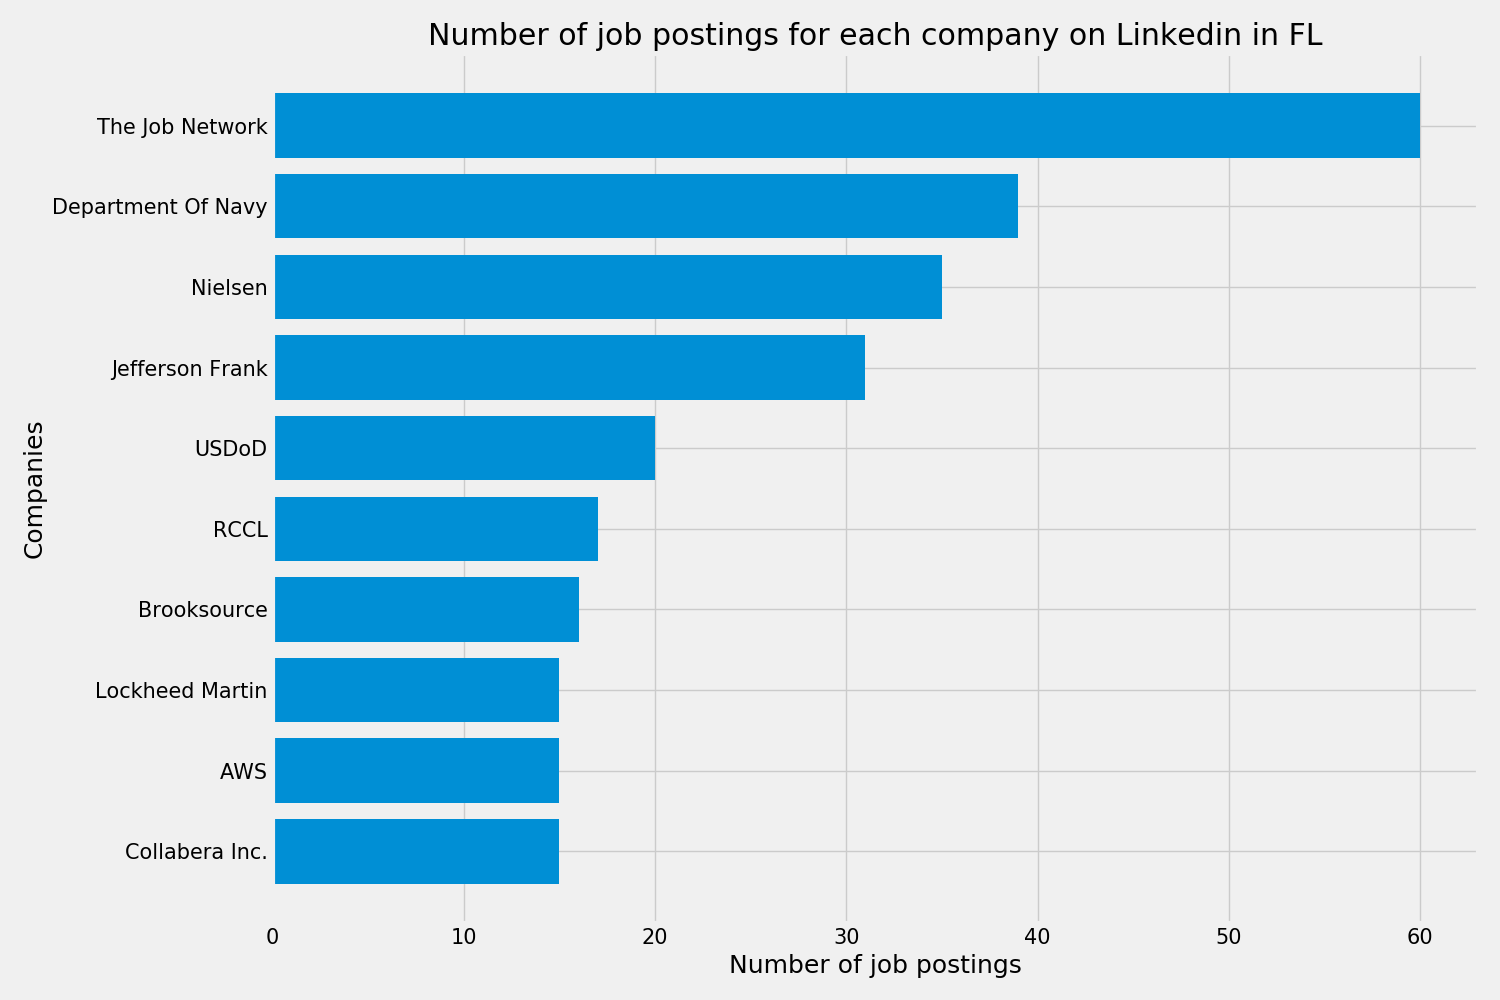
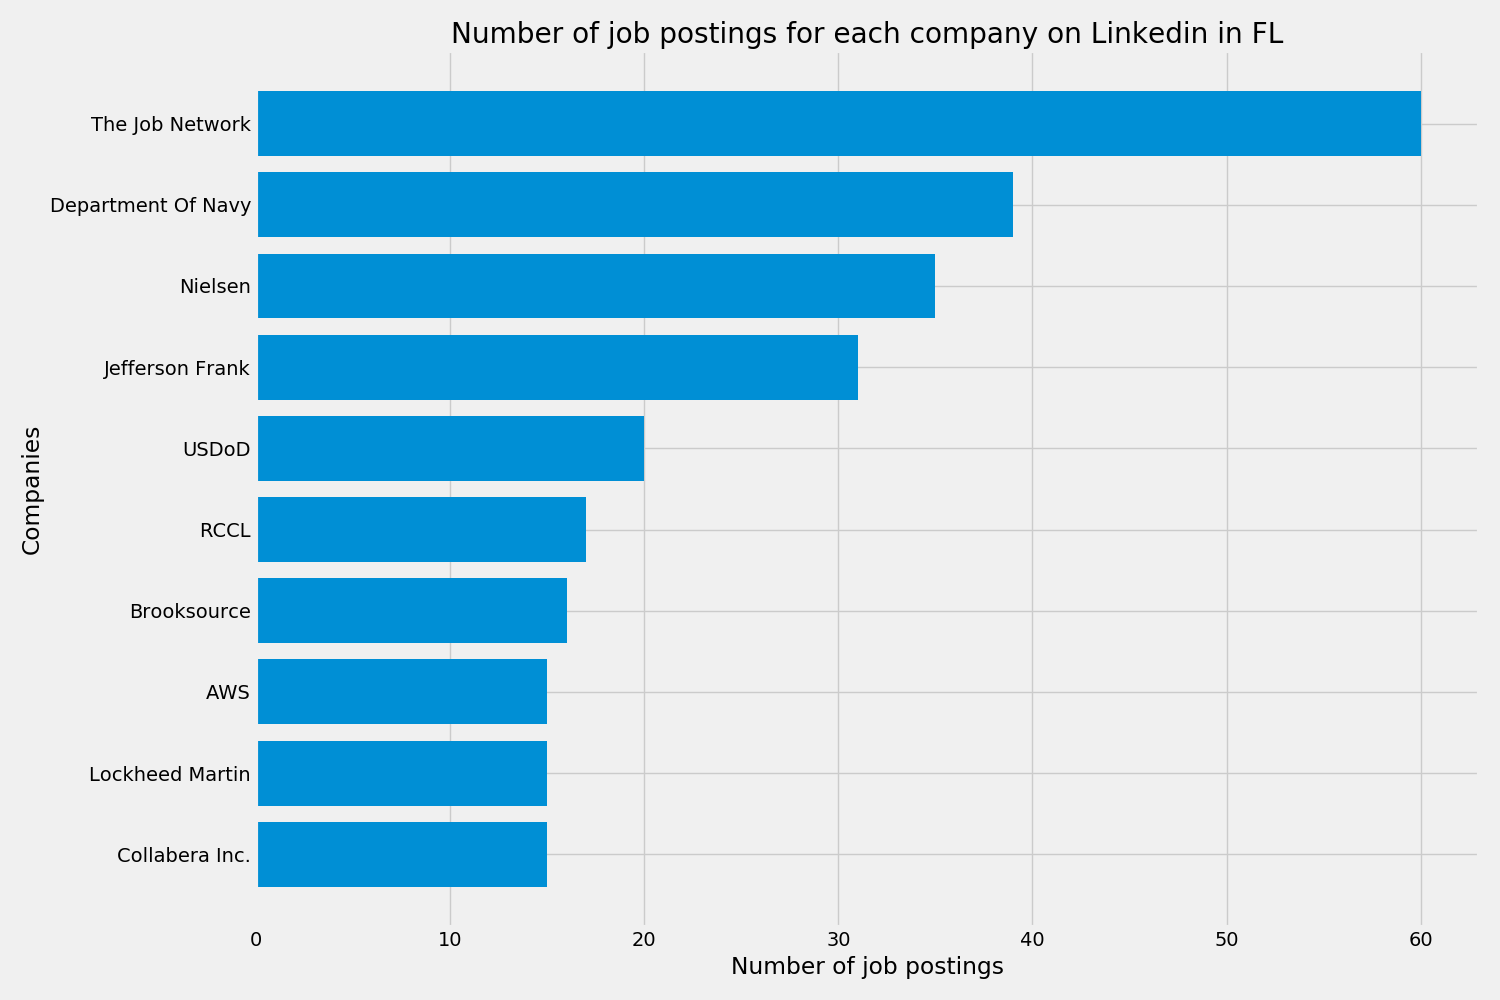
Changing graph sizes

diff --git a/src/graphing_eda.py b/src/graphing_eda.py
@@ -62,7 +62,7 @@ jobs = df_all['Company'].value_counts().values[:15]
 jobs = jobs[::-1]
 
 fig, ax = plt.subplots(figsize=(15,10))
-plt.rcParams.update({'font.size': 15})
+# plt.rcParams.update({'font.size': 15})
 
 ax.barh(companies, jobs)
 
